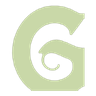
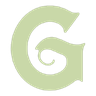
Recut the Grimwild G without clipping its bottom
Also add CLAUDE.md noting that new game systems get a hand-drawn icon
without asking, and supplied logos get simplified.

Claude-Session: https://claude.ai/code/session_017FUQcJVTBaXtcwoEfKVynf

diff --git a/CLAUDE.md b/CLAUDE.md
@@ -1,0 +1,13 @@
+# Grahmir's Dungeon — расписание клуба
+
+Статический сайт (`index.html`, без сборки) на Vercel; данные отдаёт Apps Script
+(`apps-script/Code.gs`) из Google Таблицы клуба. Подробности — в README.
+
+## Логотипы игровых систем
+
+- Каждая система в названии игры получает значок из `assets/systems/`, список — `SYSTEMS` в `index.html`.
+- Когда в таблице появляется новая система без значка, нарисуйте значок сами, не спрашивая:
+  простой SVG 24×24 в духе системы (как щупальце для Call of Cthulhu, анкх для Vampire),
+  один-два цвета, хорошо читается в 16 px на тёмном фоне. Затем добавьте строку в `SYSTEMS`.
+- Если клуб присылает официальный логотип — упростите его до узнаваемой части
+  (как звезда Fabula Ultima или буква G у Grimwild) и замените им нарисованный значок.
